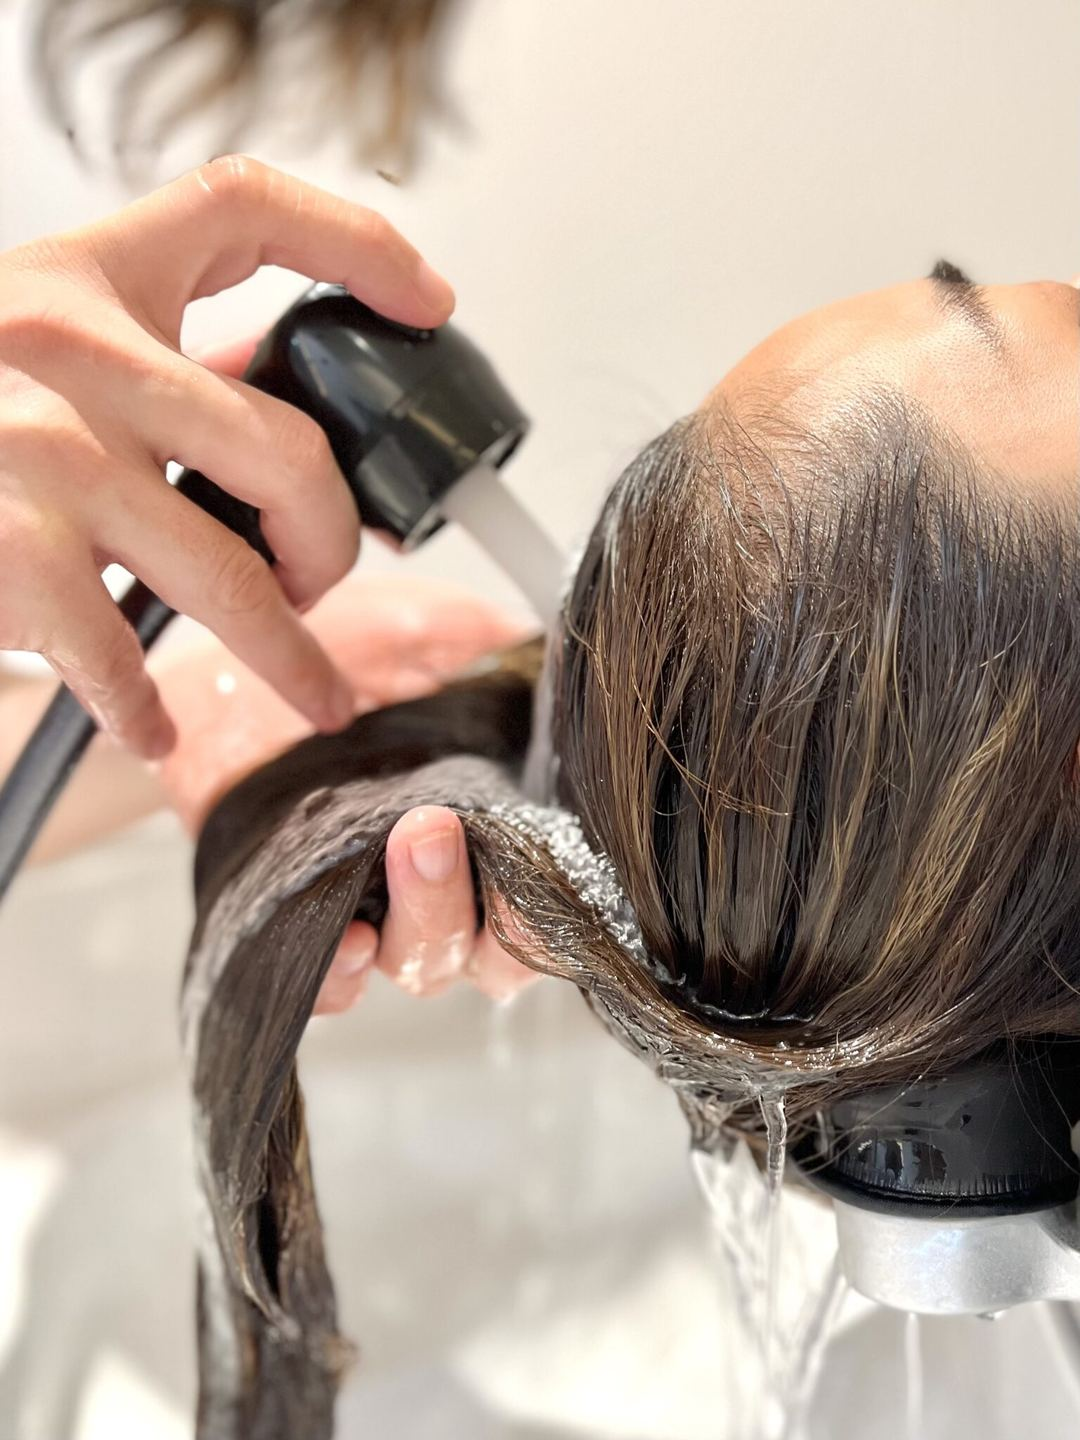
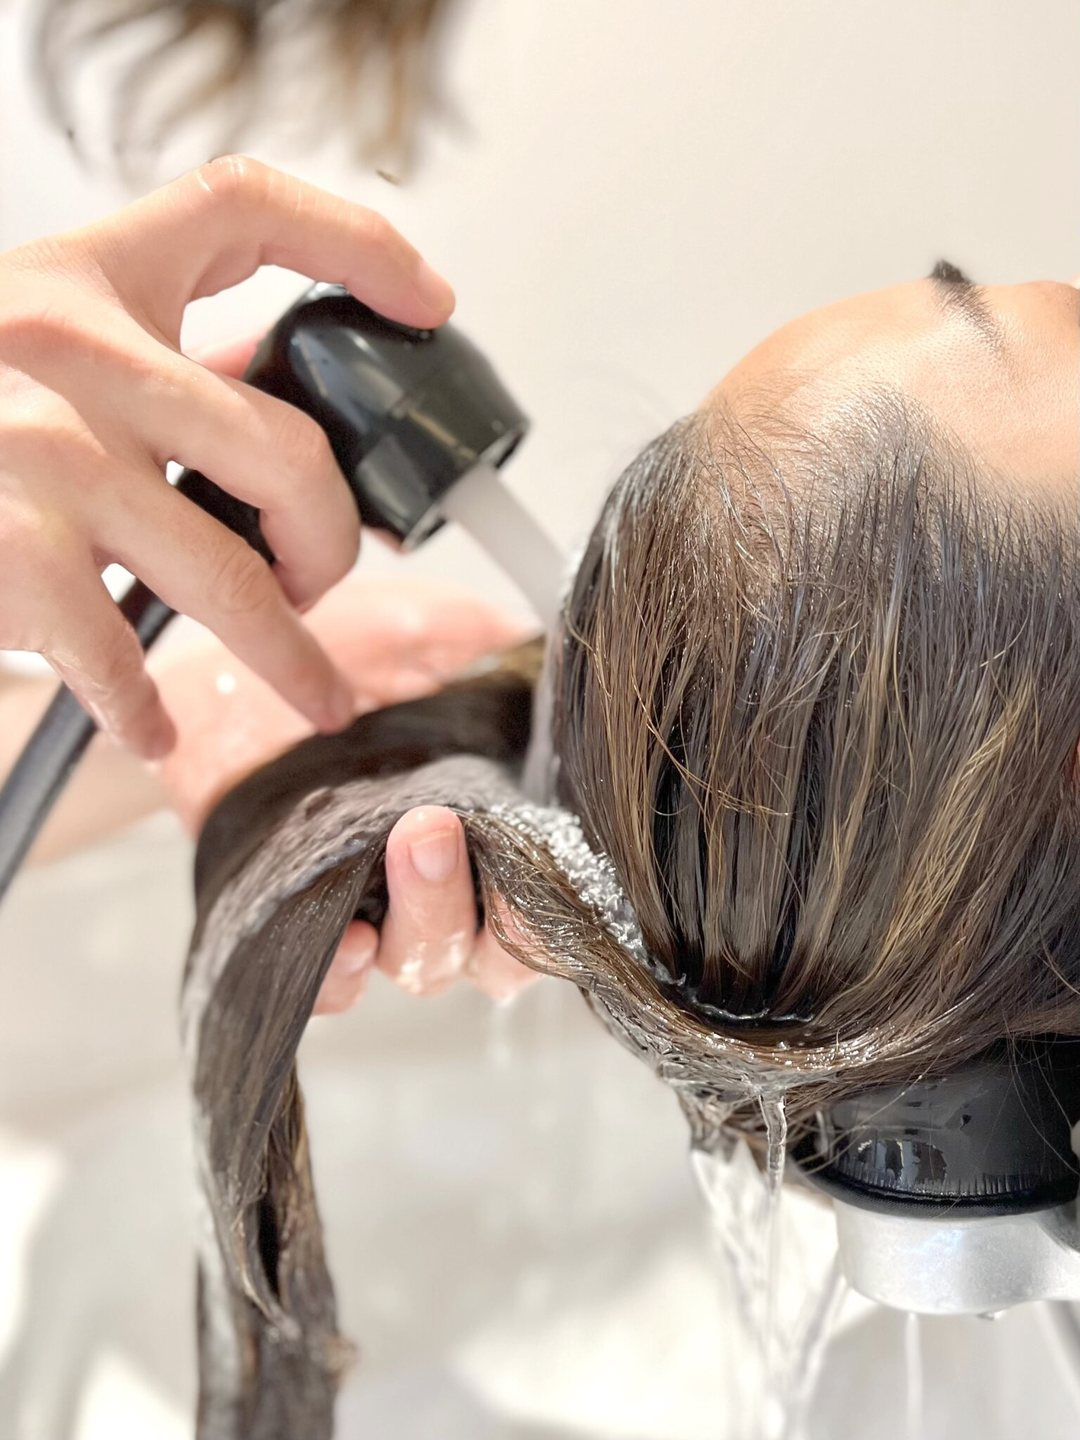
Open on the practitioner, and lift the dim frames again
New running order, owner's call: the practitioner at the basin, then the
massage, then the head bath, then the treatment. That puts a person doing the
work on the first screen instead of an apparatus, and it moves the preload —
slide one is whichever photo leads, and the head bath no longer is.

Brightness, second pass. The lift is now gamma rather than a multiplier:
multiplying scales the highlights too, and these frames already carry blown
wall and water, so the previous pass was spending its range where there was
nothing left to recover. Gamma lifts the shadows and midtones — the parts that
were unreadable — and leaves white at white. The practitioner frame comes up
15%, the treatment 10%, the stock massage 7%.

The scrim gives back what the photographs needed: its middle stop drops from
0.30 to 0.20 and the ellipse loosens, while the top band stays dark because
that is where the 12px kicker sits and nothing else there needs the light.

Two things found while measuring rather than by looking:

  - The contrast harness was scoring .hero-sub as opaque white when it is
    rgba(...,0.85), so every sub-heading number this branch has reported was
    optimistic — including the ones that passed before the last deploy. Scored
    honestly it failed on two slides. It is opaque now, which buys the contrast
    back without taking another 15% off the photograph.

  - Gamma on the stock massage frame was pulling JPEG blocking out of its
[…]

diff --git a/style.css b/style.css
@@ -310,19 +310,19 @@ body.lang-ja .lang-toggle .lang-ja { color: var(--gold-soft); font-weight: 600; 
    .is-ready on the container once the page has loaded, and that is what lets
    slides 2–4 start fetching. Without the gate all four would be requested
    during the first paint and the hero would arrive four times slower. */
-.hero-slide-1 { background-image: url('assets/hero-headbath-lg.jpg'); }
-.is-ready .hero-slide-2 { background-image: url('assets/hero-treatment-lg.jpg'); }
-.is-ready .hero-slide-3 { background-image: url('assets/hero-practitioner-lg.jpg'); }
-.is-ready .hero-slide-4 { background-image: url('assets/hero-massage-lg.jpg'); }
+.hero-slide-1 { background-image: url('assets/hero-practitioner-lg.jpg'); }
+.is-ready .hero-slide-2 { background-image: url('assets/hero-massage-lg.jpg'); }
+.is-ready .hero-slide-3 { background-image: url('assets/hero-headbath-lg.jpg'); }
+.is-ready .hero-slide-4 { background-image: url('assets/hero-treatment-lg.jpg'); }
 
 /* On a phone the hero is far taller than it is wide, so a centred `cover` of a
    16:9 file keeps only its middle third — which on these photos is wall and
    water, not the head being worked on. Swap in a 3:4 crop of the same frame. */
 @media (max-width: 639px) {
-  .hero-slide-1 { background-image: url('assets/hero-headbath-sm.jpg'); }
-  .is-ready .hero-slide-2 { background-image: url('assets/hero-treatment-sm.jpg'); }
-  .is-ready .hero-slide-3 { background-image: url('assets/hero-practitioner-sm.jpg'); }
-  .is-ready .hero-slide-4 { background-image: url('assets/hero-massage-sm.jpg'); }
+  .hero-slide-1 { background-image: url('assets/hero-practitioner-sm.jpg'); }
+  .is-ready .hero-slide-2 { background-image: url('assets/hero-massage-sm.jpg'); }
+  .is-ready .hero-slide-3 { background-image: url('assets/hero-headbath-sm.jpg'); }
+  .is-ready .hero-slide-4 { background-image: url('assets/hero-treatment-sm.jpg'); }
 }
 
 @keyframes heroZoom {
@@ -347,11 +347,11 @@ body.lang-ja .lang-toggle .lang-ja { color: var(--gold-soft); font-weight: 600; 
 .hero-scrim {
   position: absolute; inset: 0;
   background:
-    radial-gradient(ellipse 74% 62% at 50% 42%,
-      rgba(24,20,17,0.66) 0%, rgba(24,20,17,0.36) 62%, rgba(24,20,17,0) 100%),
+    radial-gradient(ellipse 74% 62% at 50% 44%,
+      rgba(24,20,17,0.64) 0%, rgba(24,20,17,0.34) 62%, rgba(24,20,17,0) 100%),
     linear-gradient(180deg,
-      rgba(43,38,34,0.80) 0%, rgba(43,38,34,0.60) 20%,
-      rgba(43,38,34,0.30) 52%, rgba(43,38,34,0.60) 100%);
+      rgba(43,38,34,0.84) 0%, rgba(43,38,34,0.64) 22%,
+      rgba(43,38,34,0.20) 56%, rgba(43,38,34,0.52) 100%);
 }
 /* A phone gets a heavier hand, and not for want of trying to avoid it: the hero
    is far taller than it is wide there, so the copy covers most of the frame
@@ -361,10 +361,10 @@ body.lang-ja .lang-toggle .lang-ja { color: var(--gold-soft); font-weight: 600; 
   .hero-scrim {
     background:
       radial-gradient(ellipse 100% 64% at 50% 44%,
-        rgba(24,20,17,0.66) 0%, rgba(24,20,17,0.42) 62%, rgba(24,20,17,0) 100%),
+        rgba(24,20,17,0.60) 0%, rgba(24,20,17,0.38) 62%, rgba(24,20,17,0) 100%),
       linear-gradient(180deg,
-        rgba(43,38,34,0.82) 0%, rgba(43,38,34,0.68) 20%,
-        rgba(43,38,34,0.52) 55%, rgba(43,38,34,0.72) 100%);
+        rgba(43,38,34,0.84) 0%, rgba(43,38,34,0.70) 20%,
+        rgba(43,38,34,0.44) 55%, rgba(43,38,34,0.66) 100%);
   }
 }
 /* The bottom padding reserves room for .hero-scroll, which is absolutely
@@ -407,9 +407,13 @@ body.lang-ja .lang-toggle .lang-ja { color: var(--gold-soft); font-weight: 600; 
   font-variant-numeric: lining-nums tabular-nums;
   font-feature-settings: "lnum" 1, "tnum" 1;
 }
+/* Opaque, where this used to be 85% white. Softening the sub-heading was cheap
+   when it sat on a near-black photo; over lit ones the missing 15% is real
+   contrast given away, and buying it back here costs the photograph nothing —
+   the alternative was another pass of darkening over the whole frame. */
 .hero-sub {
   font-size: clamp(16px, 2vw, 19px);
-  color: rgba(255, 253, 249, 0.85);
+  color: var(--white);
   max-width: 620px;
   margin: 0 auto 10px;
 }

diff --git a/index.html b/index.html
@@ -23,8 +23,8 @@
        starts downloading alongside the stylesheet instead of after it. Only
        one of the two ever matches. (The WordPress build drops everything in
        this <head> — inc/seo.php emits the same pair for the front page.) -->
-  <link rel="preload" as="image" href="assets/hero-headbath-lg.jpg" media="(min-width: 640px)" fetchpriority="high">
-  <link rel="preload" as="image" href="assets/hero-headbath-sm.jpg" media="(max-width: 639px)" fetchpriority="high">
+  <link rel="preload" as="image" href="assets/hero-practitioner-lg.jpg" media="(min-width: 640px)" fetchpriority="high">
+  <link rel="preload" as="image" href="assets/hero-practitioner-sm.jpg" media="(max-width: 639px)" fetchpriority="high">
 
   <!-- ============ Structured data: LocalBusiness / HairSalon ============
 
@@ -225,7 +225,11 @@
      hands — the only parts that say "head spa" at a glance.
      Slide 1 is the only one referenced up front. script.js adds .is-ready
      after load, which is what brings slides 2–4 into play, so the extra
-     photos never compete with the first paint. -->
+     photos never compete with the first paint.
+     Running order lives in style.css, not here — hero-slide-N is a position,
+     the filename is the photograph. Changing the order means editing those
+     four rules (twice, once per breakpoint) and the preload above, which
+     names whichever photo ends up first. -->
 <section class="hero">
   <div class="hero-bg" id="heroSlideshow" aria-hidden="true">
     <div class="hero-slide hero-slide-1 is-active"></div>
